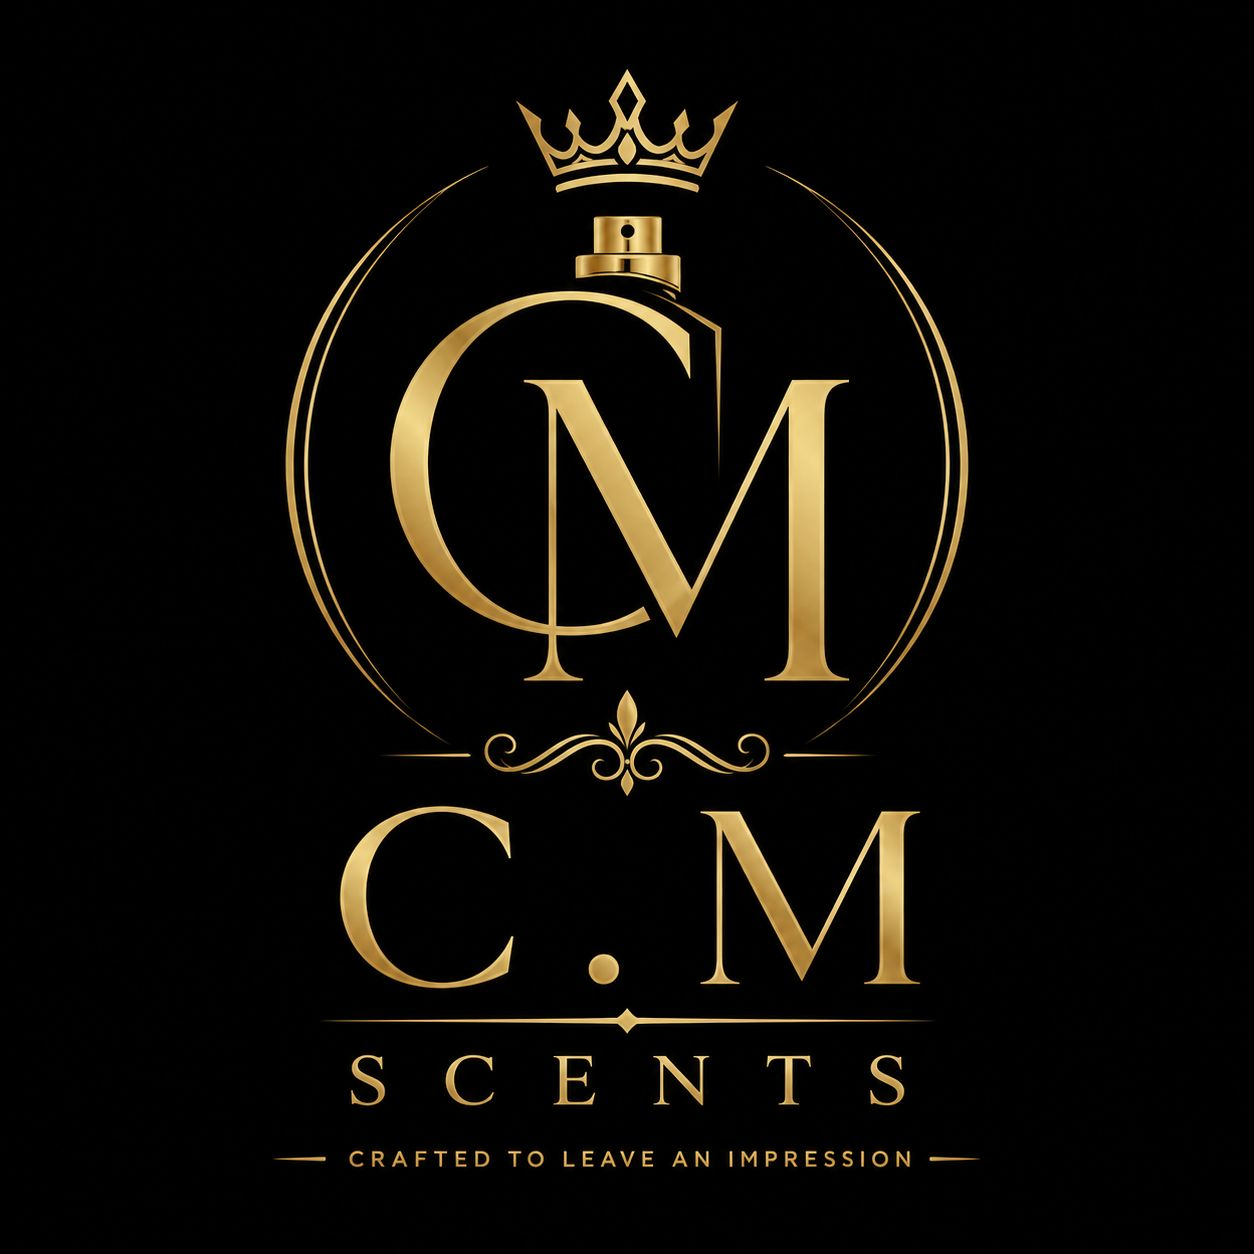
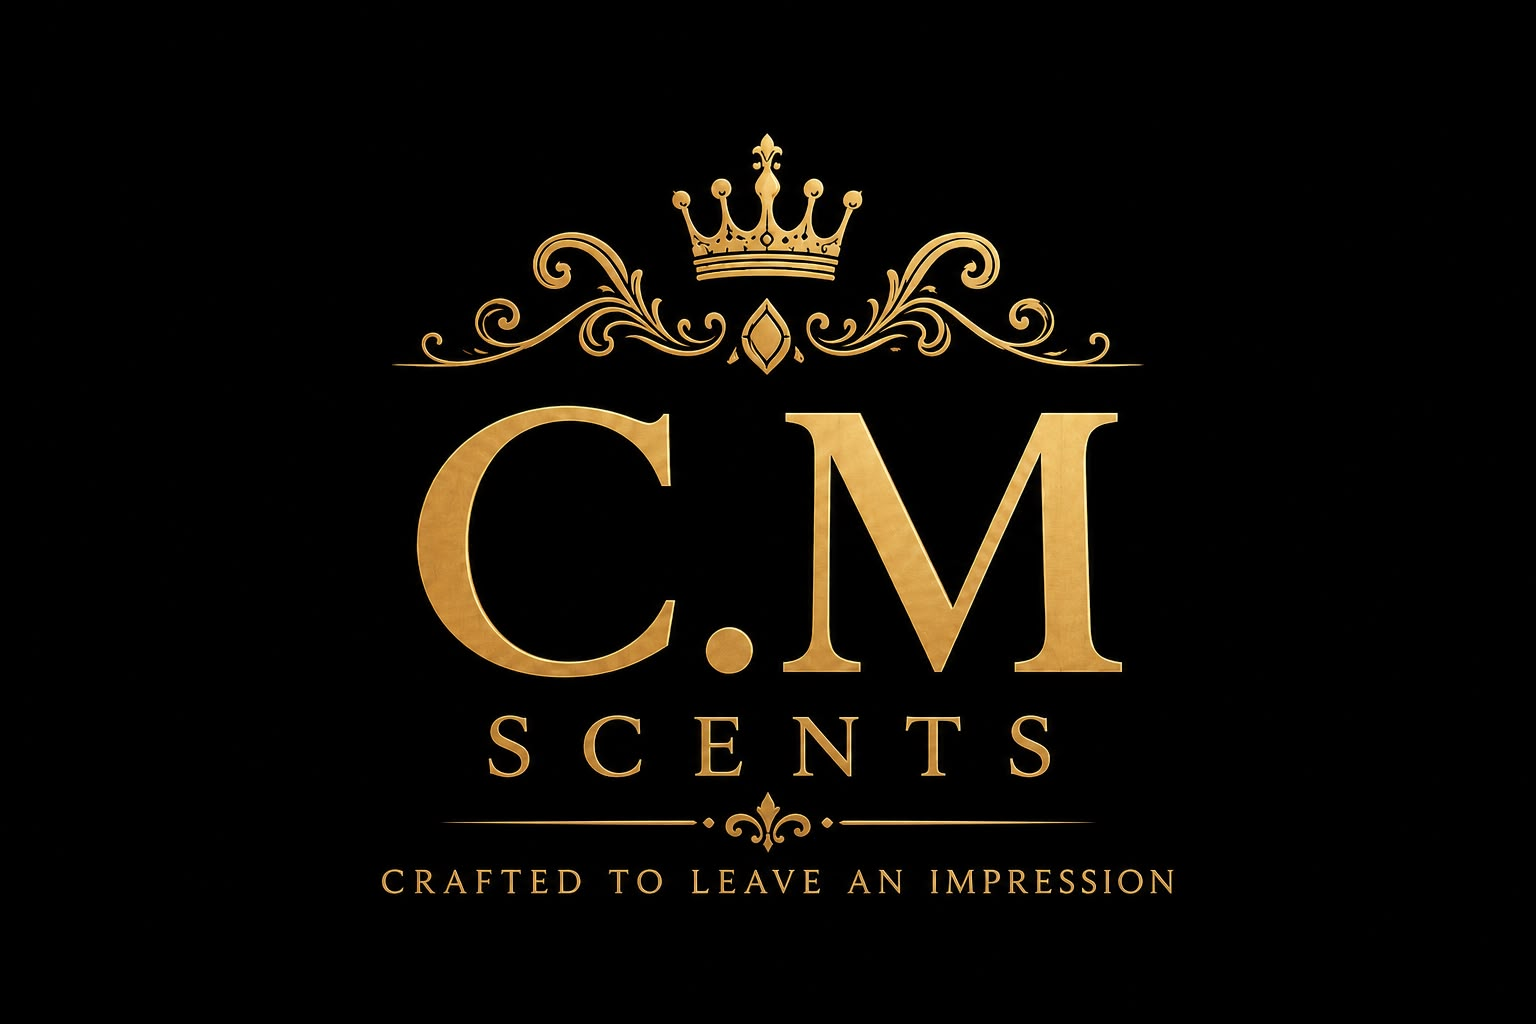
About Section Update

diff --git a/src/pages/Home.jsx b/src/pages/Home.jsx
@@ -222,13 +222,12 @@ export default function Home() {
       <section id="about" className="bg-luxury-bg2 py-24 scroll-mt-20">
         <div className="max-w-7xl mx-auto px-6 md:px-12 grid grid-cols-1 lg:grid-cols-2 gap-20 items-center">
           <div className="hidden lg:flex aspect-[4/5] bg-luxury-dark items-center justify-center relative group">
-            <div className="absolute inset-5 border border-gold/20 group-hover:border-gold/40 transition-colors" />
-            <span
-              className="font-display text-[130px] leading-none text-transparent border-title opacity-20"
-              style={{ WebkitTextStroke: "1px var(--color-gold)" }}
-            >
-              CM
-            </span>
+            <div className="absolute inset-5 border border-gold/60 group-hover:border-gold/40 transition-colors" />
+            <img
+              src="/about.jpeg"
+              alt="CM"
+              className="h-[700px] w-auto opacity-50"
+            />
           </div>
 
           <div className="space-y-8">